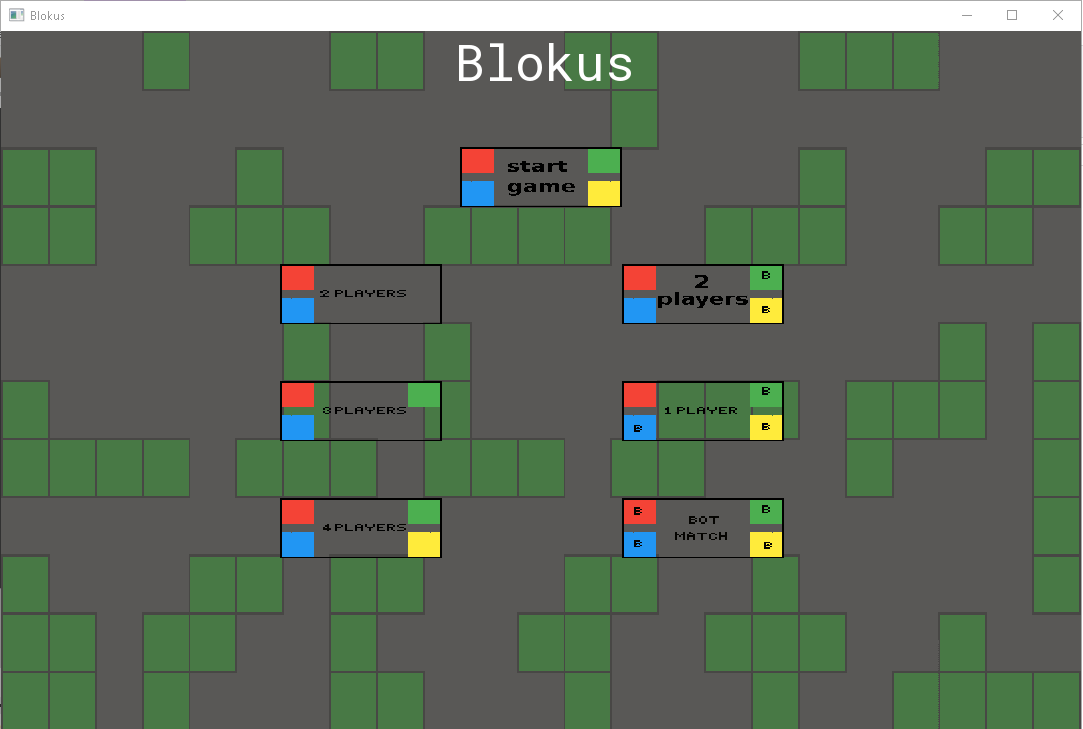
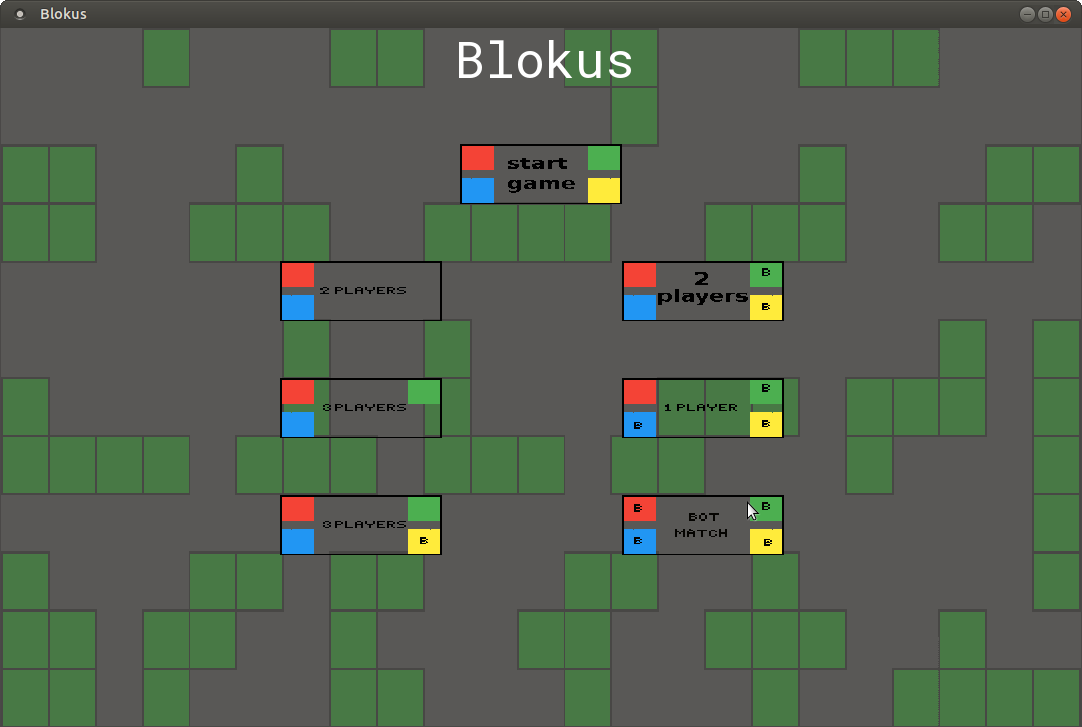
updating main menu photo

diff --git a/blokus.cc b/blokus.cc
@@ -1063,9 +1063,9 @@ int main() {
 
   sf::Texture t_four_player;
 
-  if (!t_four_player.loadFromFile("res/4players.png"))
+  if (!t_four_player.loadFromFile("res/3p1bs.png"))
   {
-    cout << "cant load the Texture file associated to 4 player button  : res/4player.png";
+    cout << "cant load the Texture file associated to 4 player button  : res/3p1bs.png";
   }
 
 
@@ -1334,7 +1334,6 @@ int main() {
       chrono[current_player].resume();
 
       current_search_number=0;
-      std::this_thread::sleep_for(std::chrono::milliseconds(50));
 
       bot_do_rotate=false;
      for(int i = 1 ; i < main_board_size-1 ; i++){
@@ -1656,9 +1655,10 @@ if(!players[current_player].bot&&players[current_player].canPlay){
             players[3].canPlay =false;
           }
           if(MousPosx<four_players_buttonR.x + four_players_buttonR.width &&MousPosx>four_players_buttonR.x &&MousPosy<four_players_buttonR.y+four_players_buttonR.height&&MousPosy>four_players_buttonR.y){
-            number_of_players = 4;
-
+            number_of_players = 3;
             start_game        = true;
+            players[3].bot =true;
+
 
           }
 
